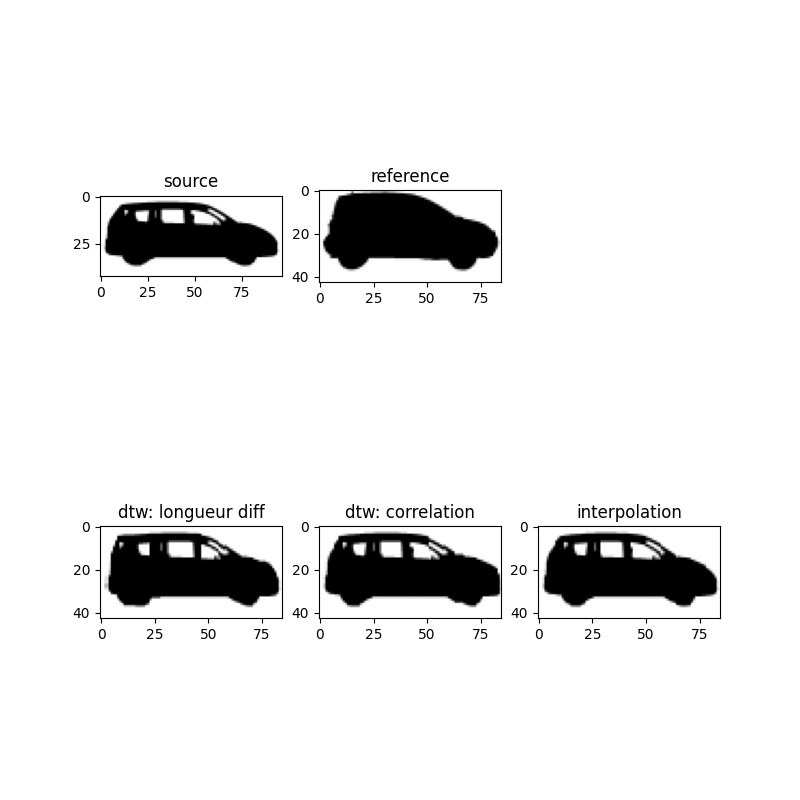
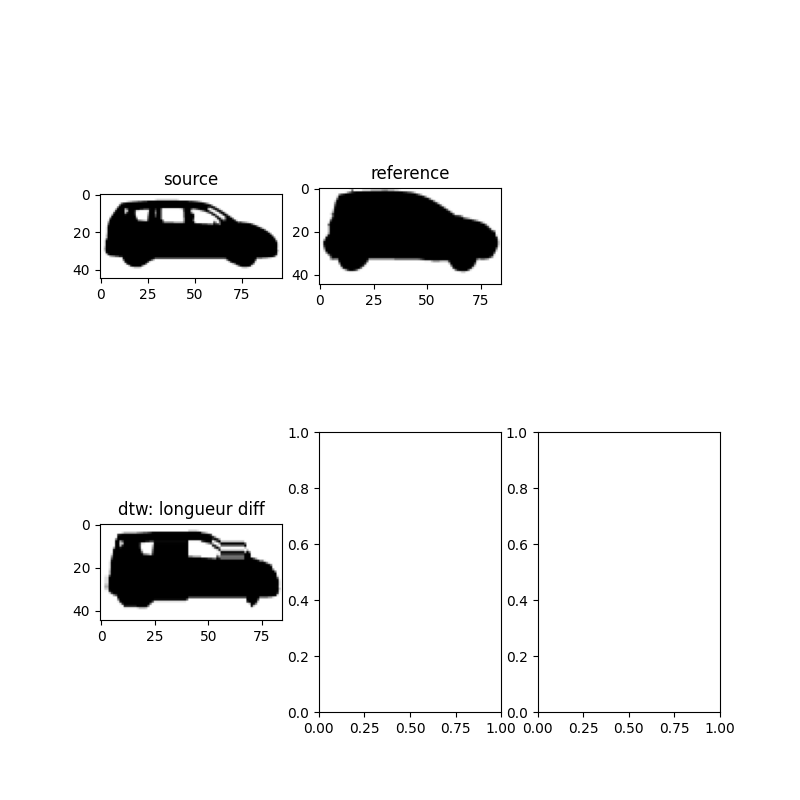
Add image sport car and update images

diff --git a/main.py b/main.py
@@ -34,14 +34,14 @@ class Alignement:
         scale_percent = int(100* HEIGHT / source_img.shape[0])
         width_s = int(source_img.shape[1] * scale_percent / 100)
         height_s = int(source_img.shape[0] * scale_percent / 100)
-        dim_s = (width_s, height_s)
+        dim_s = (width_s, HEIGHT)
 
         # print(source_img.shape, dim_s )
 
         scale_percent = int(100* HEIGHT/ ref_img.shape[0])
         width_r = int(ref_img.shape[1] * scale_percent / 100)
         height_r = int(ref_img.shape[0] * scale_percent / 100)
-        dim_r = (width_r, height_r)
+        dim_r = (width_r, HEIGHT)
 
         # print(ref_img.shape, dim_r )
 
@@ -152,7 +152,7 @@ class Alignement:
         # PIL_image.save(f"results/{source_img}-{reference_img}-dtw-hauteur.png")
         # PIL_image_interpol.save(f"results/{source_img}-{reference_img}-interpol.png")
 
-    
+
     def dtw(self, first_sequence: np.ndarray, second_sequence: np.ndarray, cost_function: "function") -> np.ndarray:
         """
             Crée la matrice des distances à partir de deux sequences
@@ -382,7 +382,7 @@ class KMEANS:
         a = Alignement()
         for source in all_images:
             dist = 0
-            for ref  in all_images:
+            for ref in all_images:
                 source_img_np, ref_img_np = a.load_img(f"{data_directory}/{source}", f"{data_directory}/{ref}", False)
                 transpose_source, transpose_ref = np.transpose(np.array(source_img_np)), np.transpose(np.array(ref_img_np))
                 dist = dist + a.dtw(transpose_source, transpose_ref, a.cost_height_diff)[-1][-1]
@@ -441,6 +441,7 @@ class KMEANS:
         
 
 generetate_aligned_image()
+
 # knn = KNN(5)
 
 # kmeans = KMEANS(2)
